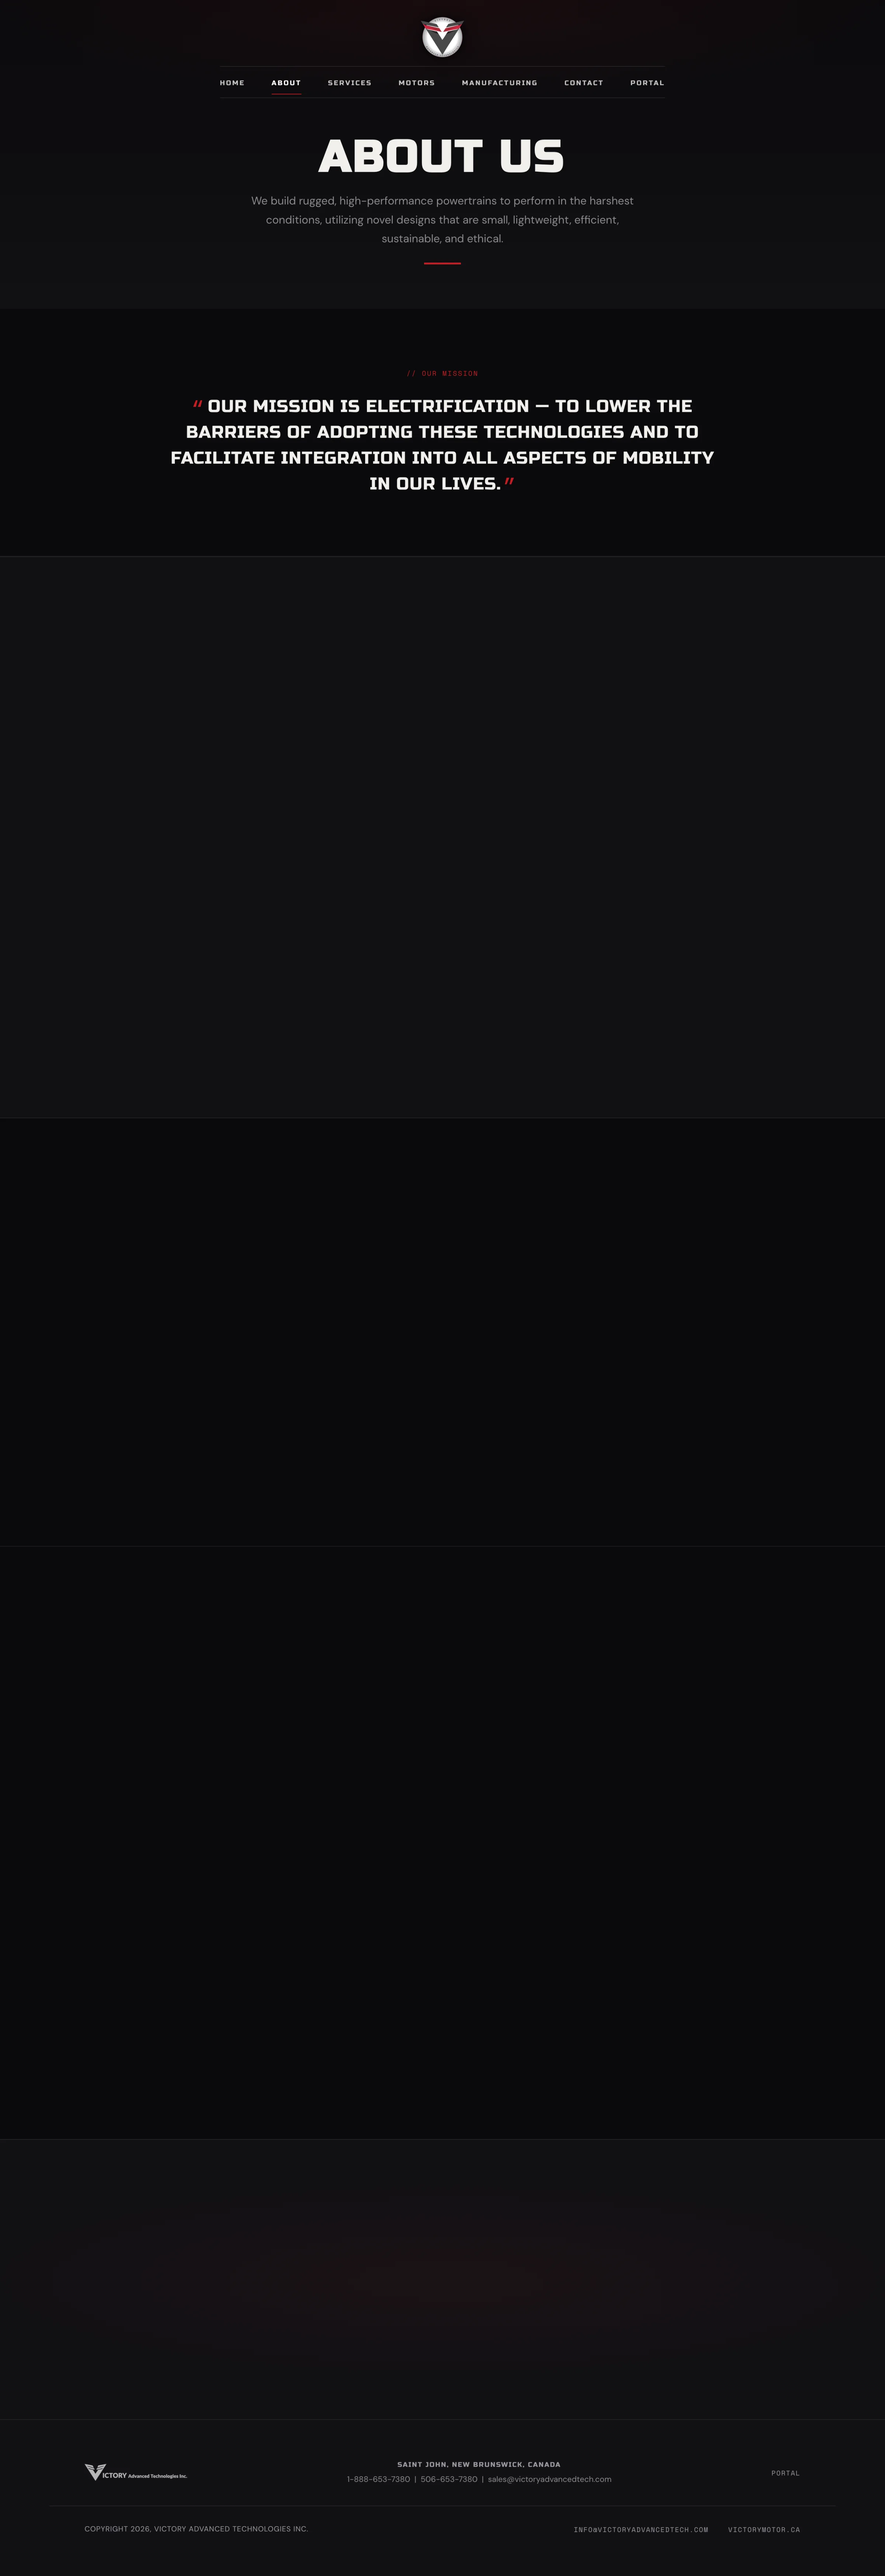
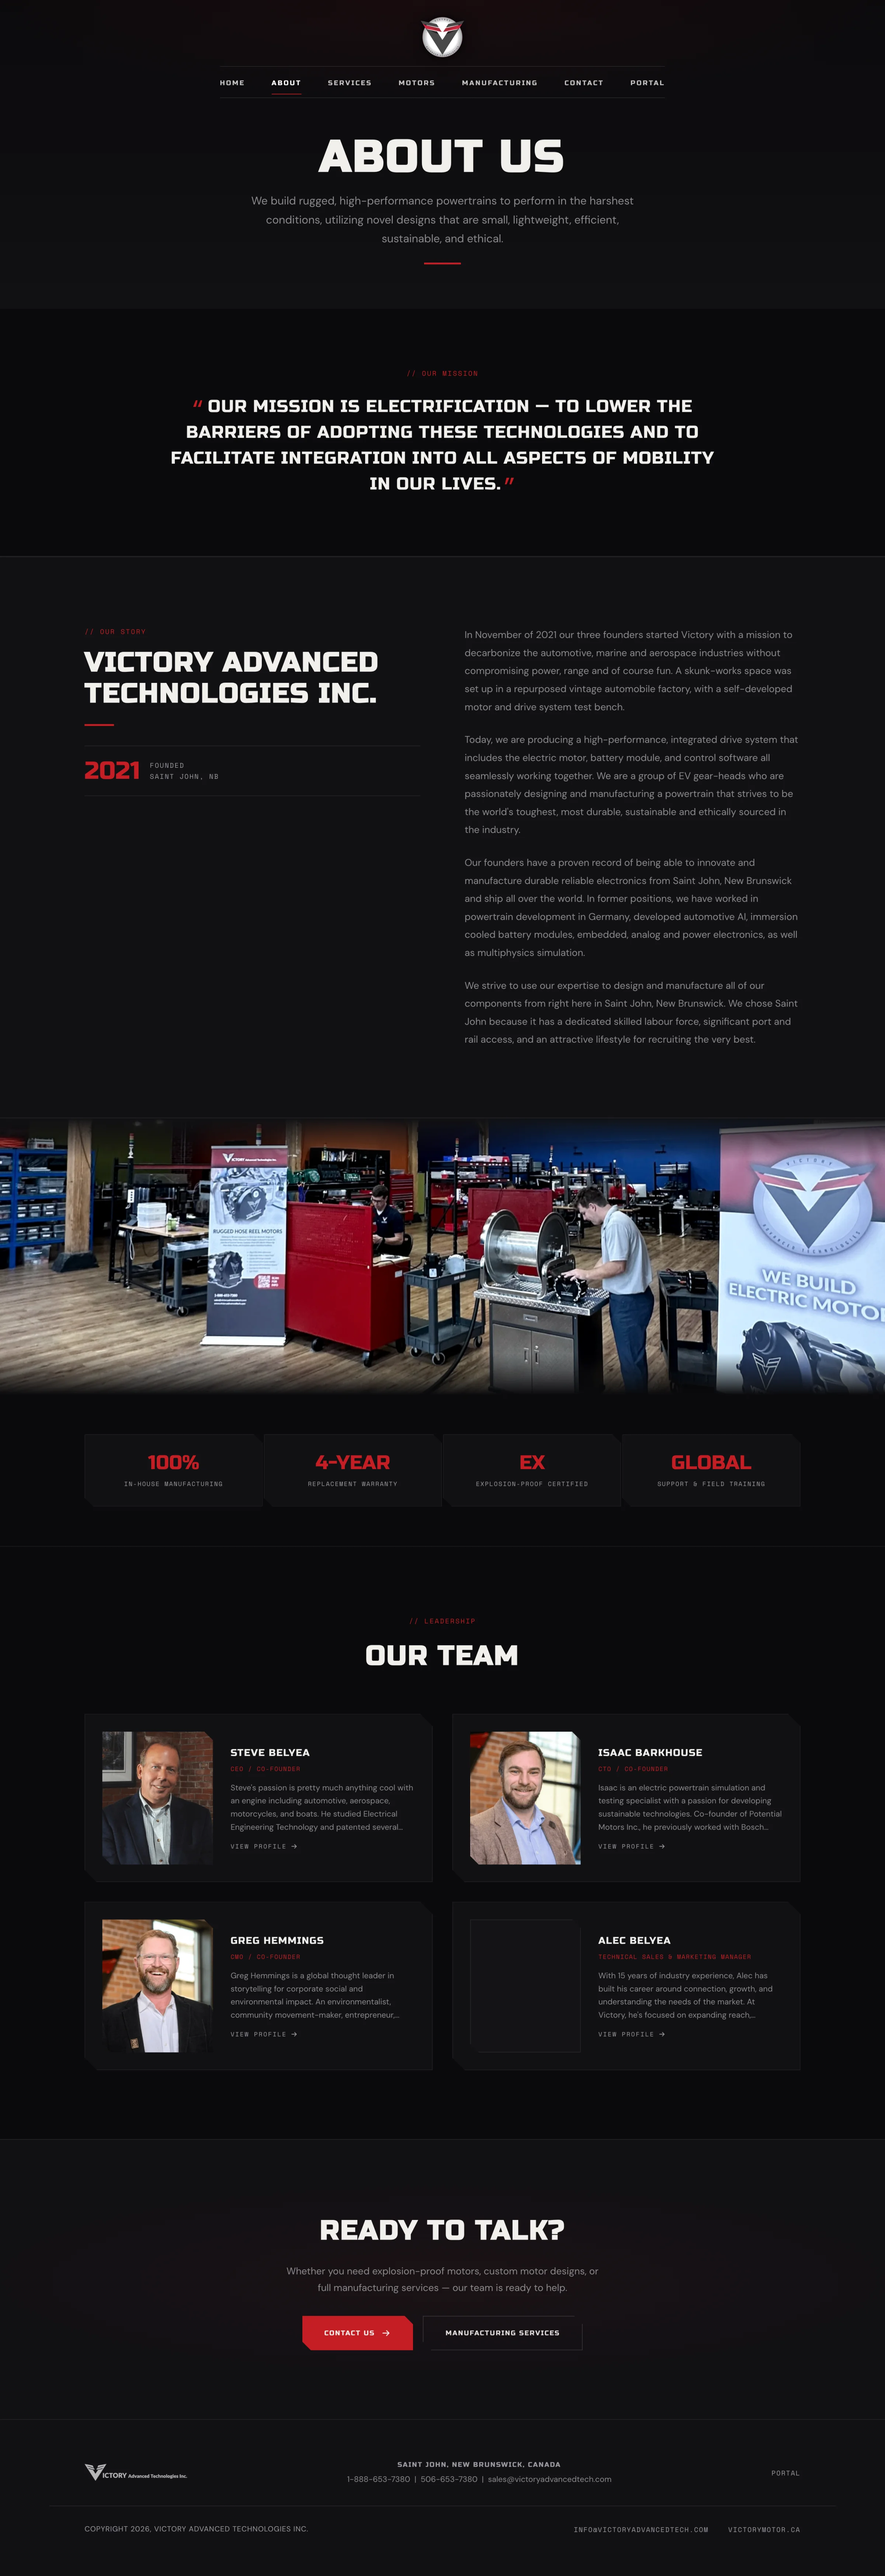
Portfolio: fix VAT description and re-screenshot with reveals forced visible
- Reword VAT case study: VAT is a Saint John, NB manufacturer of industrial
  electric motors for automotive/marine/aerospace — not a Jetwerx arm.
- Re-capture all VAT page screenshots with [data-reveal] elements forced
  visible, so previously-blank below-the-fold sections now render fully.
- Cache-bust to v=17.

diff --git a/script.js b/script.js
@@ -83,7 +83,7 @@ const projectData={
 "arenacross":{title:"AMA Arenacross Championship",category:"Web / Brand / Graphics / Motion",year:"2023 \u2014 Present",bg:"portfolio/AMA FIM Arenacross Championship/Arenacross/axbg3.webp",desc:"End-to-end creative partnership for the AMA FIM North America Arenacross Championship — the premier indoor short-track motorcycle racing series. We built and maintained the full visual ecosystem: brand identity and guidelines, responsive web platform, sponsor integration across all digital touchpoints, email marketing campaigns, event graphics, social media content, and motion design for broadcast and digital. A ground-up effort spanning every discipline to match the intensity of the sport itself.",client:"AMA FIM North America",scope:"Brand Identity, Web Design & Dev, Graphic Design, Motion, Email, Sponsor Integration, Digital Strategy",hero:"portfolio/AMA FIM Arenacross Championship/Arenacross/AX26 Event Poster - Loveland.webp",gallery:["portfolio/AMA FIM Arenacross Championship/Arenacross/INSIDE AX 25 Ep 4 v2.webp","portfolio/AMA FIM Arenacross Championship/Arenacross/AX25-26ProSchedule.webp","portfolio/AMA FIM Arenacross Championship/Arenacross/AX25 pit displays mockup.webp","portfolio/AMA FIM Arenacross Championship/Arenacross/TCS 25-26 Credentials Mockup.webp","portfolio/AMA FIM Arenacross Championship/Arenacross/HBshirtlight2-Recovered.webp","portfolio/AMA FIM Arenacross Championship/Arenacross/AX25_Daytona-Flyer.webp"]},
 "tcs":{title:"Triple Crown Series",category:"Web / Brand",bg:"",desc:"Full website design and development for the Triple Crown Series \u2014 Canada\u2019s premier professional motocross racing championship. Hand-coded digital platform with a custom admin CMS, live championship standings, and a full command center.",client:"Jetwerx International Inc.",scope:"Web Design & Development, Custom CMS, Brand Integration, Admin Dashboard",year:"2025 \u2014 Present"},
 "haus-of-revival":{title:"Haus of Revival",category:"Web",bg:"",desc:"Full website design and development for Haus of Revival \u2014 a luxury med spa specializing in personalized peptide therapy sourced from FDA-registered pharmacies. Hand-coded, editorial-inspired digital platform with a full peptide catalog, dynamic product detail pages, appointment booking flow, and a soft, editorial aesthetic that balances clinical trust with aspirational wellness.",client:"Haus of Revival",scope:"Web Design & Development, Information Architecture, UX, Booking Flow",year:"2026"},
-"vat":{title:"Victory Advanced Technologies",category:"Web / Brand",bg:"",desc:"Full multi-page website build for Victory Advanced Technologies \u2014 an industrial manufacturing and motor engineering partner of Jetwerx. Hand-coded platform engineered to communicate precision, capability, and scale across services, manufacturing operations, industrial motors, and concept engineering \u2014 built to convert enterprise inquiries.",client:"Victory Advanced Technologies",scope:"Web Design & Development, Information Architecture, Brand Integration",year:"2026"},
+"vat":{title:"Victory Advanced Technologies",category:"Web / Brand",bg:"",desc:"Full multi-page website build for Victory Advanced Technologies \u2014 a Canadian manufacturer of rugged, high-performance industrial electric motors based in Saint John, New Brunswick. On a mission to electrify the automotive, marine, and aerospace industries, VAT needed a platform that communicates engineering precision, explosion-proof certifications, and the four-year replacement warranty that backs every motor they build. Hand-coded from the ground up.",client:"Victory Advanced Technologies",scope:"Web Design & Development, Information Architecture, Brand Integration",year:"2026"},
 "tfx":{title:"The Fittest Experience",category:"Graphic Design / Brand",year:"2026",bg:"portfolio/The Fittest Experience/tfx-slide-04-reach.webp",desc:"Elevated sponsorship deck for The Fittest Experience \u2014 an 18-year, longest-running CrossFit competition in the South. Full-screen interactive presentation engineered for partnership pitches: 3,000+ competitors per season across 120 gyms, $50K in prizes, 7M seasonal impressions, and a 2026 Championship headed to Austin, TX. Built slide-by-slide to move prospective sponsors from awareness to commitment.",client:"The Fittest Experience",scope:"Graphic Design, Presentation Design, Interactive Web Deck, Brand Collateral",hero:"portfolio/The Fittest Experience/tfx-slide-01-cover.webp"},
 "bitd":{title:"Best in the Desert",category:"Web / Brand / Graphics / Motion",bg:"portfolio/Best in the Desert/BITD BG1.webp",desc:"Four years as the creative backbone of America\u2019s premier off-road desert racing association. From expanding and maintaining the series website to designing unique event logos for every race on the calendar, we delivered a complete visual ecosystem \u2014 social media, print, apparel, course maps, sponsor integration, and motion \u2014 across one of the most demanding schedules in motorsport.",client:"Best in the Desert Racing Association",scope:"Brand Identity, Event Logos, Web Expansion & Maintenance, Graphic Design, Motion, Apparel, Print",year:"2022 \u2014 2026"},
 "gouker":{title:"Nathan Gouker Racing",category:"Graphic Design / Brand",desc:"Sponsorship proposal deck for Nathan Gouker — a 13-year-old American motorcycle road racer competing in Spain\u2019s ESBK Talent Cup series. A cinematic, widescreen presentation built to secure sponsor partnerships, combining bold motorsport typography with dynamic race photography across nine pages of rider profile, series overview, audience demographics, and partnership structure.",client:"Nathan Gouker Racing",scope:"Graphic Design, Presentation Design, Brand Collateral",year:"2025"},

diff --git a/index.html b/index.html
@@ -57,8 +57,8 @@
   </style>
 
   <!-- Full stylesheet (minified, 34KB — loads fast with preload hint) -->
-  <link rel="preload" href="styles.css?v=16" as="style" fetchpriority="high">
-  <link rel="stylesheet" href="styles.css?v=16">
+  <link rel="preload" href="styles.css?v=17" as="style" fetchpriority="high">
+  <link rel="stylesheet" href="styles.css?v=17">
 
   <!-- Fonts (self-hosted, eliminates render-blocking Google Fonts chain) -->
   <style>
@@ -96,7 +96,7 @@
   <script defer src="three.min.js"></script>
   <script defer src="grid-scene.js"></script>
   <script defer src="logo-scene.js"></script>
-  <script defer src="script.js?v=16"></script>
+  <script defer src="script.js?v=17"></script>
   <noscript><style>
     .boot-overlay{display:none!important}
     .panel{position:static!important;opacity:1!important;visibility:visible!important;height:auto!important}
@@ -1669,8 +1669,8 @@
         <!-- 01 THE PLATFORM — Hero laptop + phone -->
         <div class="cs-section" style="padding-top:24px">
           <div class="cs-section-eyebrow">01 The Platform</div>
-          <h3 class="cs-section-title">Industrial Manufacturing, Digitized.</h3>
-          <p class="cs-section-desc">A multi-page digital command center for Victory Advanced Technologies — the industrial manufacturing and motor engineering arm of a Jetwerx partnership. Hand-coded, precision-tuned, engineered to communicate scale and capability to enterprise buyers in services, manufacturing, and industrial motors.</p>
+          <h3 class="cs-section-title">Industrial Electric Motors, Digitized.</h3>
+          <p class="cs-section-desc">A multi-page digital command center for Victory Advanced Technologies — a Saint John, New Brunswick manufacturer of rugged, high-performance electric motors for automotive, marine, and aerospace. Hand-coded and precision-tuned to communicate engineering capability, explosion-proof certifications, and the four-year warranty standing behind every unit.</p>
 
           <div class="sg-hero">
             <div class="sg-laptop">
